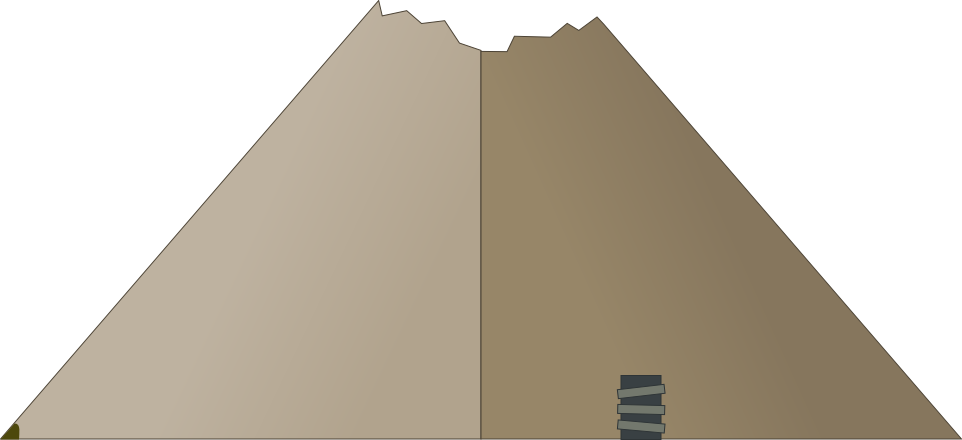
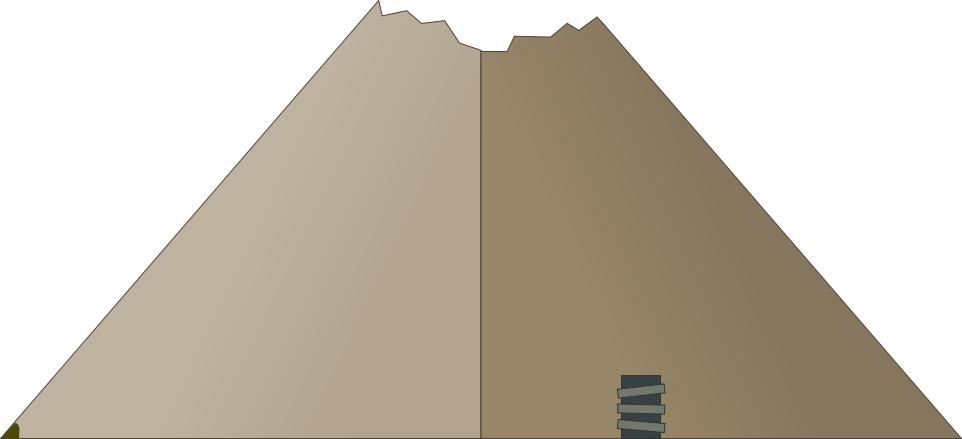
Doors now function properly across areas, and there's a door to the pyramid.

Changed region(s): [[0.0, 0.9772, 0.6549, 1.0], [0.6861, 0.9772, 1.0, 1.0]]

diff --git a/foreverend/levels/level2.py b/foreverend/levels/level2.py
@@ -2,7 +2,7 @@ import pygame
 
 from foreverend.effects import FloatEffect
 from foreverend.levels.base import Area, Level, TimePeriod
-from foreverend.sprites import Box, IceBoulder, Sprite, TiledSprite
+from foreverend.sprites import Box, Door, IceBoulder, Sprite, TiledSprite
 from foreverend.timer import Timer
 
 
@@ -15,11 +15,19 @@ class Level2OutsideArea(Area):
                           self.size[1] - 64 - self.engine.player.rect.height)
 
 
-class Outside12000BC(Level2OutsideArea):
+class Level2PyramidArea(Area):
+    size = (1500, 800)
+
     def __init__(self, *args, **kwargs):
-        super(Outside12000BC, self).__init__(*args, **kwargs)
+        super(Level2PyramidArea, self).__init__(*args, **kwargs)
+        self.key = 'pyramid'
+        self.start_pos = (100,
+                          self.size[1] - 64 - self.engine.player.rect.height)
+
+
+class Outside12000BC(Level2OutsideArea):
+    def setup(self):
         self.bg.fill((219, 228, 252))
-        self.name = '12,000 BC'
 
         level_width, level_height = self.size
 
@@ -68,8 +76,10 @@ class Outside12000BC(Level2OutsideArea):
 class Outside1000AD(Level2OutsideArea):
     def __init__(self, *args, **kwargs):
         super(Outside1000AD, self).__init__(*args, **kwargs)
+        self.pyramid_door = Door('1000ad/pyramid_door')
+
+    def setup(self):
         self.bg.fill((255, 251, 219))
-        self.name = '1000 AD'
 
         level_width, level_height = self.size
 
@@ -98,15 +108,39 @@ class Outside1000AD(Level2OutsideArea):
         self.main_layer.add(cactus)
         cactus.move_to(2600, ground.rect.top - cactus.rect.height)
 
+        self.pyramid_door.destination = self.time_period.areas['pyramid'].door
+        self.main_layer.add(self.pyramid_door)
+        self.pyramid_door.move_to(
+            pyramid.rect.left + 621,
+            pyramid.rect.bottom - self.pyramid_door.rect.height)
+
         # Artifact
         self.level.add_artifact(self, cactus.rect.right + 100, ground.rect.top)
 
 
-class Outside2300AD(Level2OutsideArea):
+class Pyramid1000AD(Level2PyramidArea):
     def __init__(self, *args, **kwargs):
-        super(Outside2300AD, self).__init__(*args, **kwargs)
+        super(Pyramid1000AD, self).__init__(*args, **kwargs)
+        self.door = Door('1000ad/pyramid_door')
+
+    def setup(self):
+        self.bg.fill((255, 251, 219))
+
+        area_width, area_height = self.size
+
+        tiles_x = area_width / 144
+        ground = TiledSprite('1000ad/ground', tiles_x, 1)
+        self.main_layer.add(ground)
+        ground.move_to(0, area_height - ground.rect.height)
+
+        self.door.destination = self.time_period.areas['default'].pyramid_door
+        self.main_layer.add(self.door)
+        self.door.move_to(100, ground.rect.top - self.door.rect.height)
+
+
+class Outside2300AD(Level2OutsideArea):
+    def setup(self):
         self.bg.fill((89, 80, 67))
-        self.name = '2300 AD'
 
         level_width, level_height = self.size
 
@@ -149,6 +183,11 @@ class Outside2300AD(Level2OutsideArea):
         float_effect.start()
 
 
+class Pyramid2300AD(Level2PyramidArea):
+    def setup(self):
+        self.bg.fill((89, 80, 67))
+
+
 class Level2(Level):
     def __init__(self, *args, **kwargs):
         super(Level2, self).__init__(*args, **kwargs)
@@ -157,5 +196,11 @@ class Level2(Level):
 
     def setup(self):
         self.add(TimePeriod('12,000 BC', [Outside12000BC(self)]))
-        self.add(TimePeriod('1000 AD', [Outside1000AD(self)]))
-        self.add(TimePeriod('2300 AD', [Outside2300AD(self)]))
+        self.add(TimePeriod('1000 AD', [
+            Outside1000AD(self),
+            Pyramid1000AD(self),
+        ]))
+        self.add(TimePeriod('2300 AD', [
+            Outside2300AD(self),
+            Pyramid2300AD(self),
+        ]))

diff --git a/foreverend/levels/base.py b/foreverend/levels/base.py
@@ -168,7 +168,6 @@ class Layer(object):
 class Level(object):
     def __init__(self, engine):
         self.engine = engine
-        self.areas = []
         self.time_periods = []
         self.active_area = None
 
@@ -191,12 +190,17 @@ class Level(object):
     def reset(self):
         self.active_area = None
         self.active_time_period = None
-        self.areas = []
         self.time_periods = []
-        self.setup()
+        self._setup()
 
     def setup(self):
         pass
+
+    def _setup(self):
+        self.setup()
+
+        for time_period in self.time_periods:
+            time_period.setup()
 
     def switch_area(self, area):
         player = self.engine.player
@@ -255,9 +259,14 @@ class TimePeriod(object):
             self.default_area = area
 
         self.areas[area.key] = area
+        area.time_period = self
 
     def draw(self, screen):
         self.active_area.draw(screen)
+
+    def setup(self):
+        for area in self.areas.itervalues():
+            area.setup()
 
 
 class Area(object):

diff --git a/foreverend/levels/level1.py b/foreverend/levels/level1.py
@@ -18,8 +18,7 @@ class Level1Area(Area):
 
 
 class Outside600AD(Level1Area):
-    def __init__(self, *args, **kwargs):
-        super(Outside600AD, self).__init__(*args, **kwargs)
+    def setup(self):
         self.bg.fill((237, 243, 255))
 
         tiles_x = self.size[0] / 32
@@ -79,8 +78,7 @@ class Outside1999AD(Level1Area):
     WALL_COLOR = (211, 215, 207)
     FLOOR_COLOR = (211, 215, 207)
 
-    def __init__(self, *args, **kwargs):
-        super(Outside1999AD, self).__init__(*args, **kwargs)
+    def setup(self):
         self.bg.fill((199, 214, 251))
 
         level_width, level_height = self.size
@@ -168,8 +166,7 @@ class Outside1999AD(Level1Area):
 
 
 class Outside65000000BC(Level1Area):
-    def __init__(self, *args, **kwargs):
-        super(Outside65000000BC, self).__init__(*args, **kwargs)
+    def setup(self):
         self.exploding = False
         self.exploded = False
 

diff --git a/foreverend/sprites/common.py b/foreverend/sprites/common.py
@@ -35,6 +35,8 @@ class Door(Sprite):
     def handle_event(self, event):
         if (event.type == KEYDOWN and event.key in (K_UP, K_DOWN) and
             self.destination):
+            assert isinstance(self.destination, Door)
+
             player = self.layer.area.engine.player
             dest_rect = self.destination.rect
 
@@ -42,7 +44,7 @@ class Door(Sprite):
             assert dest_area.level == self.layer.area.level
 
             if self.layer.area != dest_area:
-                dest_level.switch_area(dest_area)
+                dest_area.level.switch_area(dest_area)
 
             player.move_to(
                 dest_rect.left + (dest_rect.width - player.rect.width) / 2,
